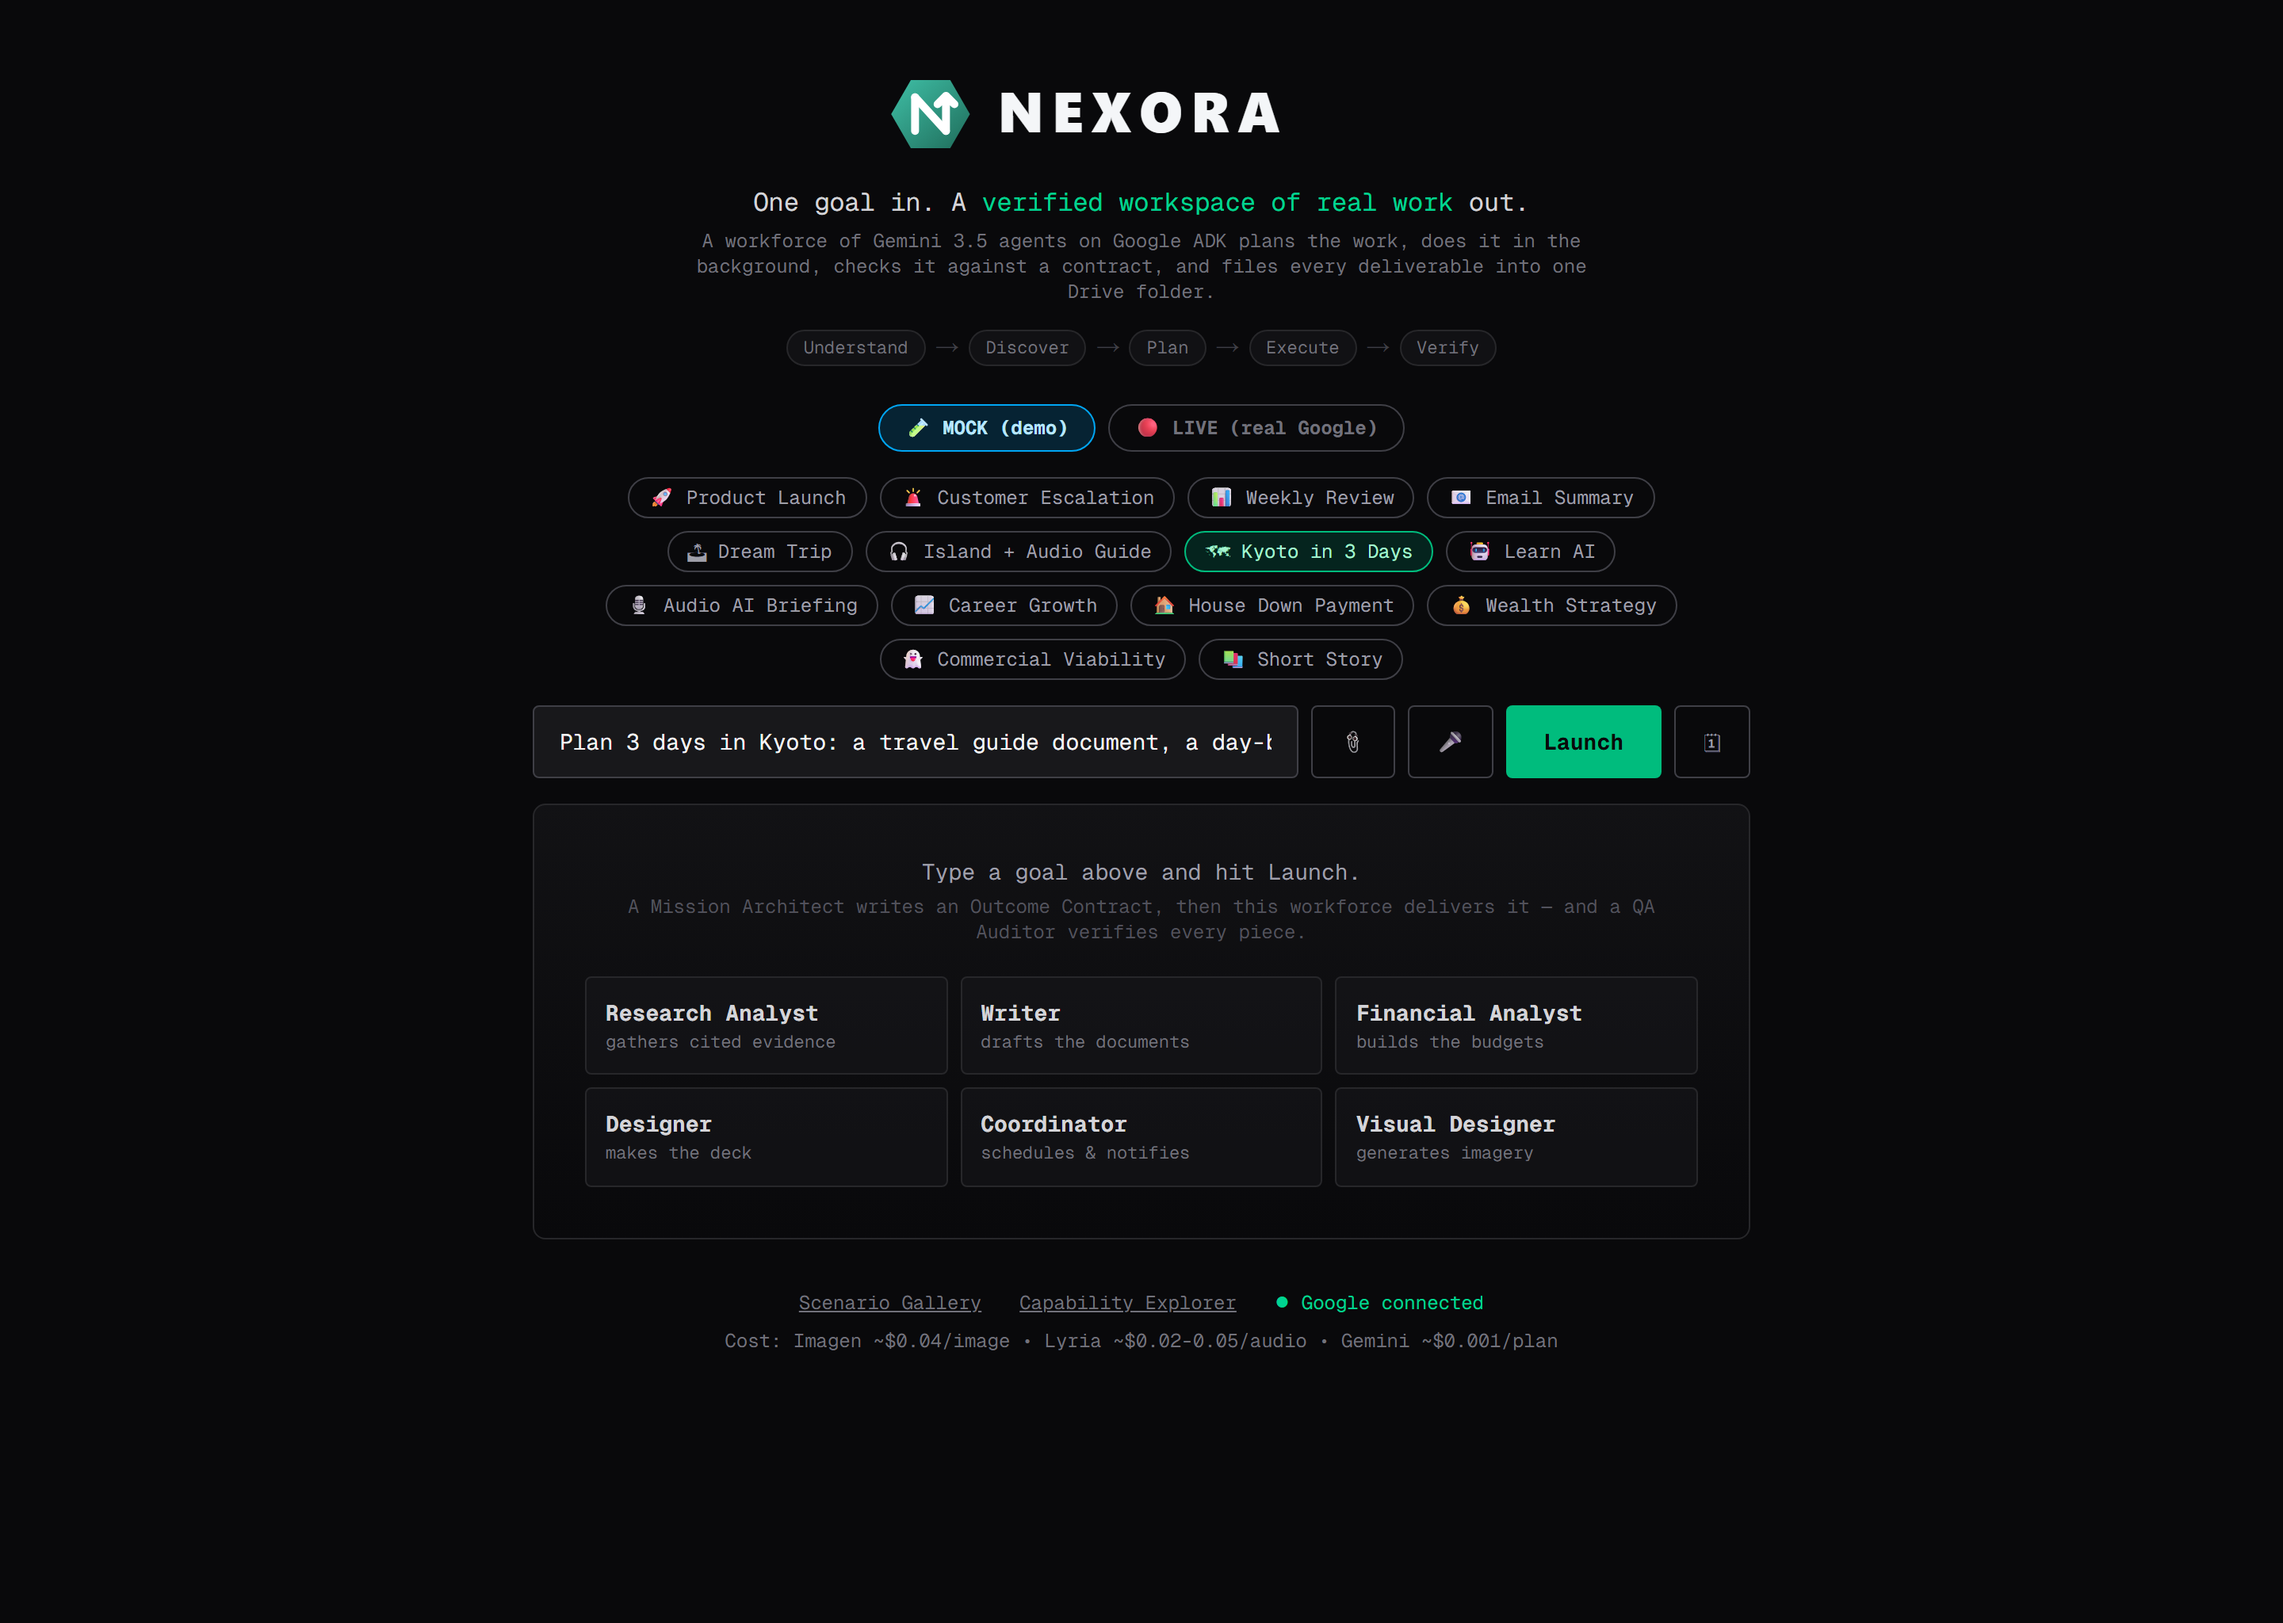
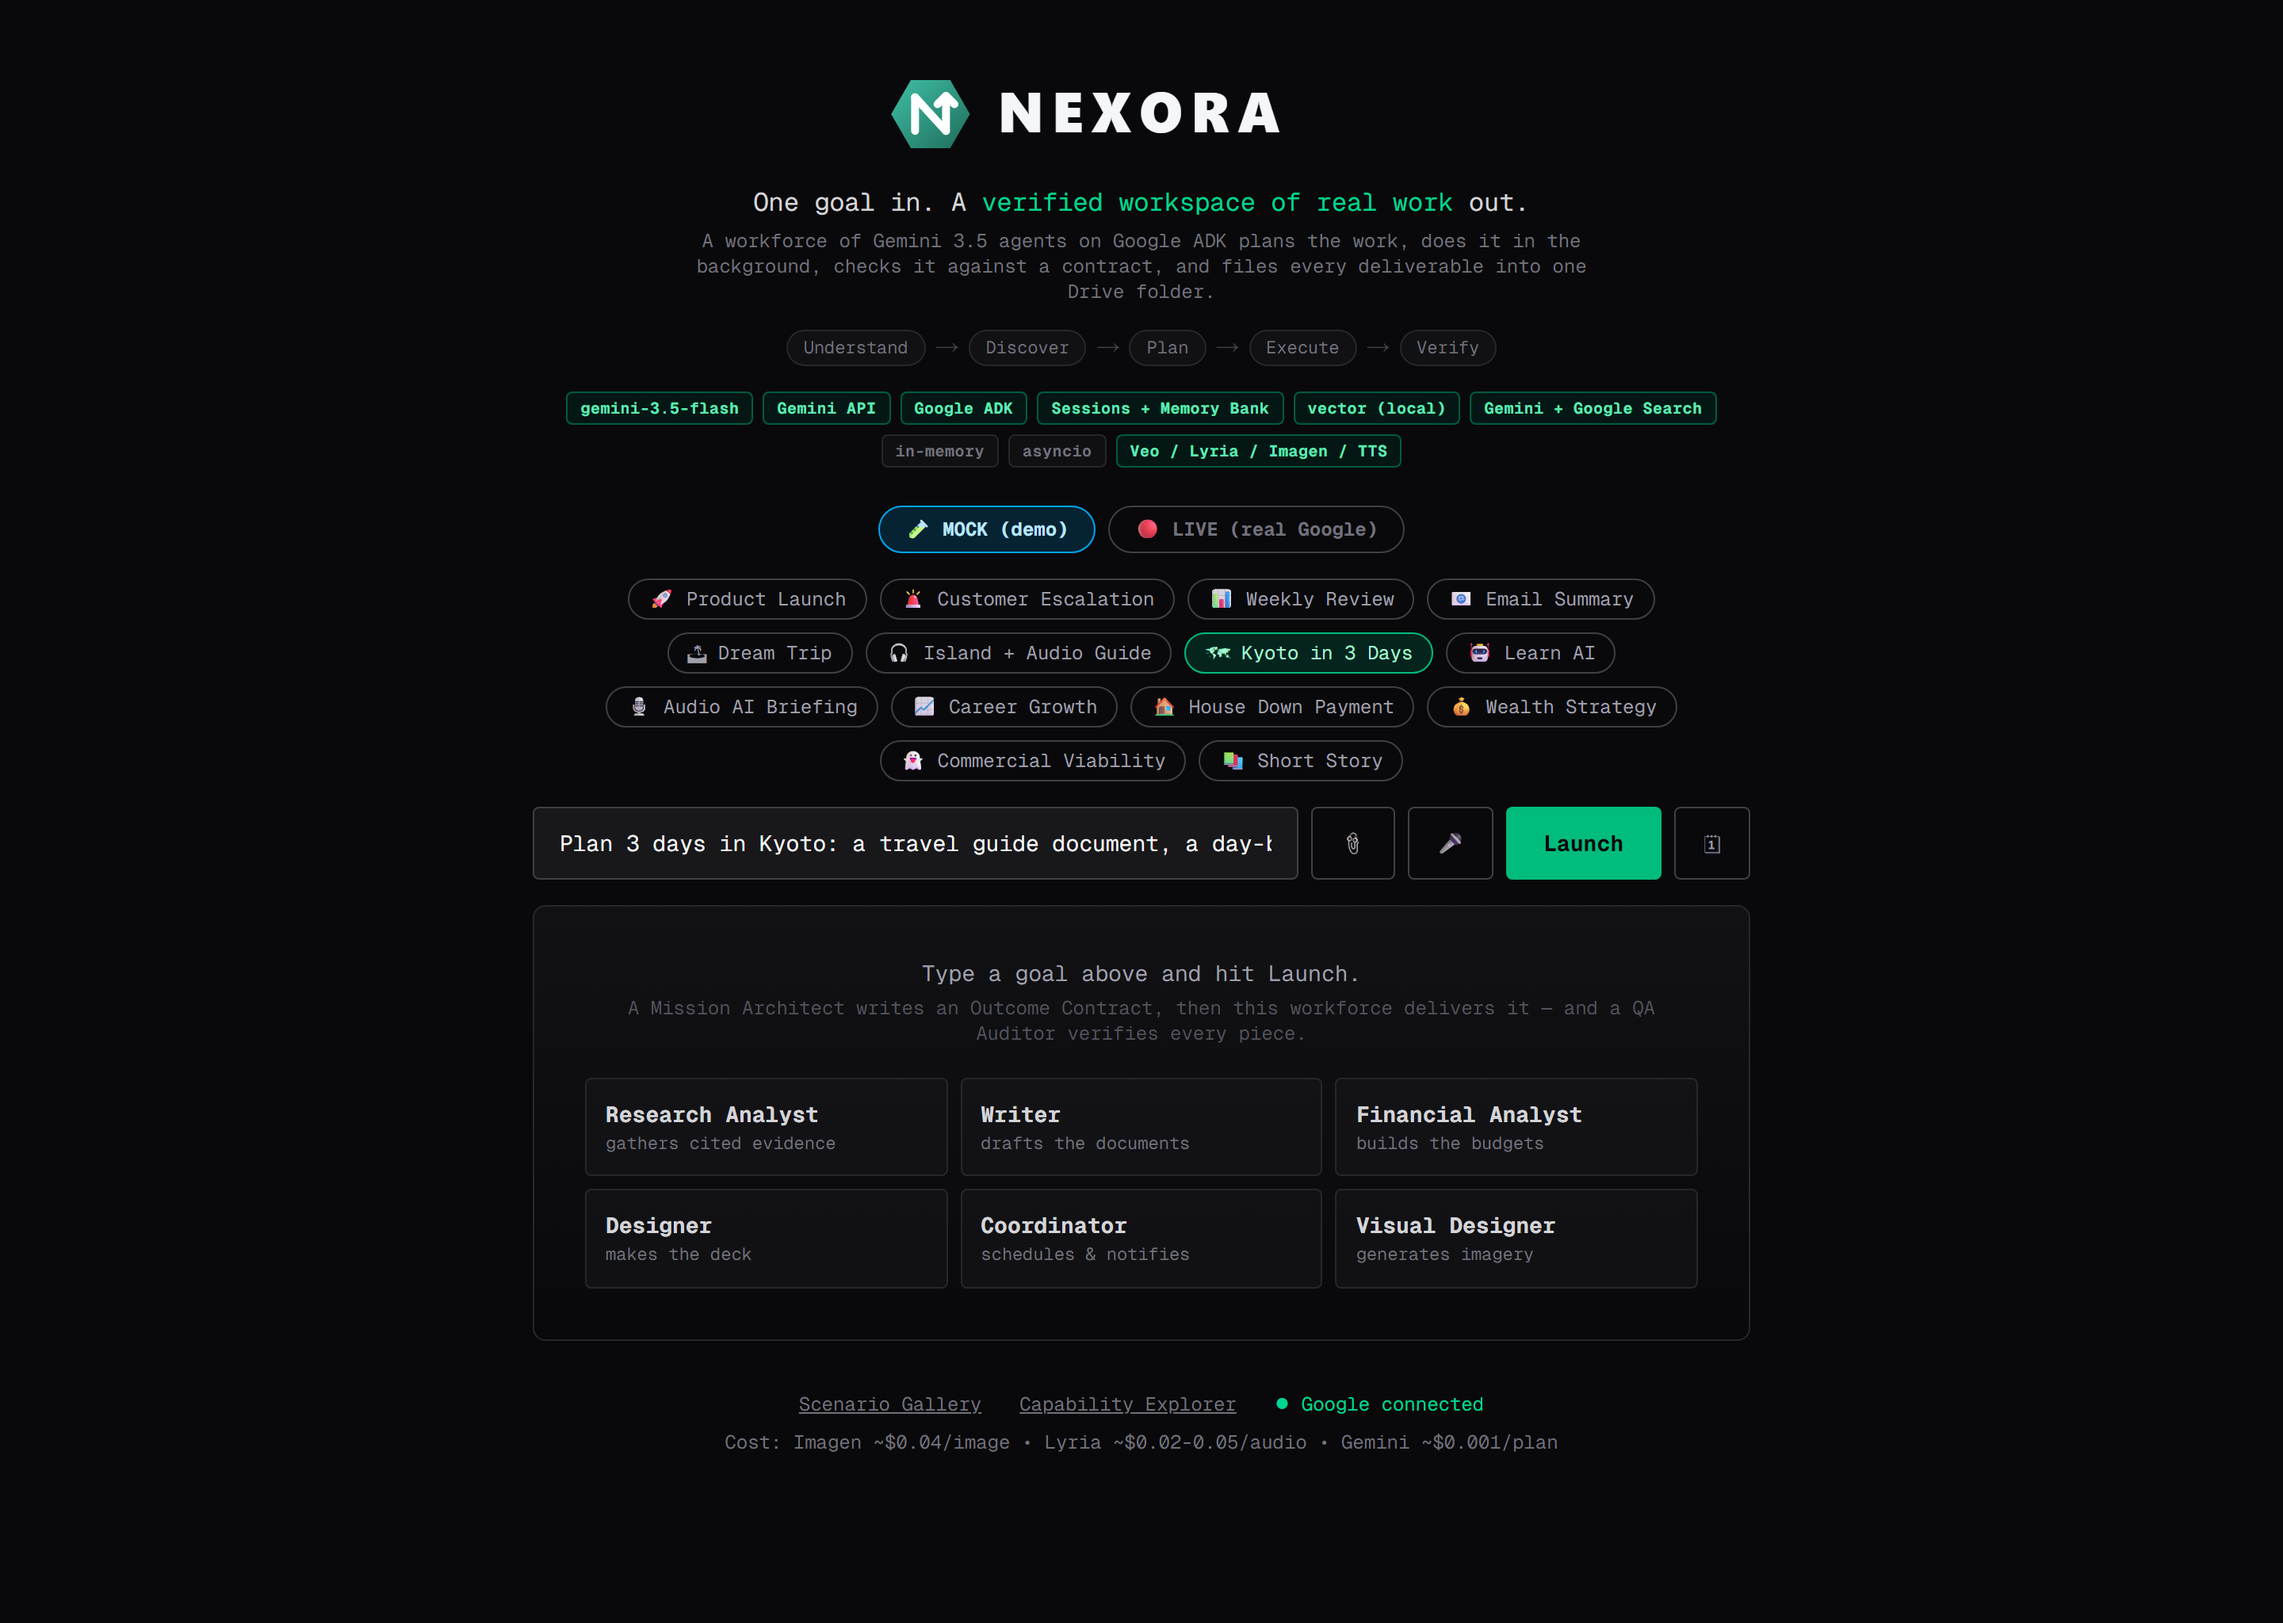
Live Google-stack badge row + /api/v1/config; README requirements checklist
- GET /api/v1/config returns the resolved stack (model ids + on/off badges for
  Gemini 3.5, Vertex AI, Google ADK, Agent Engine Sessions+Memory Bank, grounded
  research, Firestore, Cloud Tasks, media models).
- Command Center header renders that as a badge row — green when active — so a
  judge can see the whole Google stack live, nothing taken on faith.
- README: a top-of-file "Hackathon requirements — at a glance" section — every
  mandatory requirement + every bonus model in a scannable table with file:line
  proof and a one-command grep to verify the wiring.
- Screenshots regenerated with the badge row.

154 tests pass; frontend typechecks.

diff --git a/apps/web/src/app/page.tsx b/apps/web/src/app/page.tsx
@@ -55,6 +55,8 @@ export default function Home() {
   const [error, setError] = useState<string | null>(null);
   const [selectedNode, setSelectedNode] = useState<any | null>(null);
   const [gConnected, setGConnected] = useState<boolean | null>(null);
+  const [cfg, setCfg] = useState<any>(null);
+  useEffect(() => { safeGet(`${API}/api/v1/config`).then(setCfg); }, []);
 
   // Phase 12: Execution mode selector (MOCK demo vs LIVE real workspace)
   const [execMode, setExecMode] = useState<"MOCK" | "LIVE">("MOCK");
@@ -201,6 +203,23 @@ export default function Home() {
             </span>
           ))}
         </div>
+
+        {/* Live Google-stack badges — resolved from the running config */}
+        {cfg?.badges && (
+          <div className="mx-auto mt-4 flex max-w-3xl flex-wrap items-center justify-center gap-1.5">
+            {cfg.badges.map((b: any) => (
+              <span key={b.label}
+                title={`${b.label}: ${b.value}`}
+                className={`rounded border px-2 py-0.5 text-[10px] font-bold tracking-wide ${
+                  b.on
+                    ? "border-emerald-700/70 bg-emerald-950/40 text-emerald-300"
+                    : "border-zinc-800 bg-zinc-900/50 text-zinc-500"
+                }`}>
+                {b.value}
+              </span>
+            ))}
+          </div>
+        )}
       </header>
 
       <div className="mx-auto max-w-3xl">

diff --git a/apps/api/nexora/main.py b/apps/api/nexora/main.py
@@ -141,6 +141,45 @@ async def healthz():
             "dispatcher": os.getenv("NEXORA_DISPATCHER", "local")}
 
 
+@app.get("/api/v1/config")
+async def resolved_config():
+    """The Google stack NEXORA is actually running against — rendered live in the
+    Command Center header so there is nothing to take on faith."""
+    from nexora.core.llm_client import llm_available
+    from nexora.core.adk_runtime import adk_available, _agent_engine_id
+    from nexora.core.memory_bank import memory_bank_available
+    backend = os.getenv("NEXORA_LLM_BACKEND", "auto")
+    on_vertex = backend == "vertex" or (backend == "auto" and bool(os.getenv("GCP_PROJECT_ID"))
+                                        and not os.getenv("GEMINI_API_KEY"))
+    badges = []
+    badges.append(("Gemini", os.getenv("NEXORA_MODEL_T2", "gemini-3.5-flash"), llm_available()))
+    badges.append(("Transport", "Vertex AI" if on_vertex else "Gemini API", llm_available()))
+    badges.append(("Agents", "Google ADK", adk_available()))
+    badges.append(("Agent Engine", "Sessions + Memory Bank" if _agent_engine_id() else "in-process",
+                   bool(_agent_engine_id())))
+    badges.append(("Memory", "Memory Bank" if memory_bank_available() else "vector (local)", True))
+    badges.append(("Research", "Gemini + Google Search", os.getenv("NEXORA_GROUNDED_RESEARCH", "1") == "1"))
+    badges.append(("State", "Firestore" if os.getenv("NEXORA_REPO") == "firestore" else "in-memory",
+                   os.getenv("NEXORA_REPO") == "firestore"))
+    badges.append(("Dispatch", "Cloud Tasks" if os.getenv("NEXORA_DISPATCHER") == "cloud" else "asyncio",
+                   os.getenv("NEXORA_DISPATCHER") == "cloud"))
+    badges.append(("Media", "Veo / Lyria / Imagen / TTS", True))
+    return {
+        "execution_mode": os.getenv("EXECUTION_MODE", "MOCK"),
+        "project": os.getenv("GCP_PROJECT_ID", ""),
+        "agent_engine": _agent_engine_id(),
+        "models": {
+            "reasoning": os.getenv("NEXORA_MODEL_T2", "gemini-3.5-flash"),
+            "image": os.getenv("NEXORA_IMAGE_MODEL", "gemini-2.5-flash-image"),
+            "video": os.getenv("NEXORA_VIDEO_MODEL", "veo-3.1-fast-generate-001"),
+            "music": os.getenv("NEXORA_AUDIO_MODEL", "lyria-002"),
+            "speech": os.getenv("NEXORA_TTS_MODEL", "gemini-2.5-flash-tts"),
+            "embedding": os.getenv("NEXORA_EMBED_MODEL", "text-embedding-005"),
+        },
+        "badges": [{"label": l, "value": v, "on": bool(o)} for l, v, o in badges],
+    }
+
+
 async def _spawn_scheduled(goal: str, execution_mode: ExecutionMode) -> str:
     """Scheduler entry point — create a mission from a standing instruction."""
     mission = await create_mission(GoalRequest(goal=goal, execution_mode=execution_mode))

diff --git a/README.md b/README.md
@@ -17,6 +17,39 @@
 
 ---
 
+## Hackathon requirements — at a glance
+
+**Every mandatory requirement is met, and every point is proven with a link or a one‑command check.**
+
+| Requirement | ✅ NEXORA uses | Where |
+|---|---|---|
+| **Gemini 3.5 or newer** | `gemini-3.5-flash` — the Architect, all 6 workforce agents, the QA Auditor, research synthesis, screenshot vision, and doc/slide/sheet composition | [`llm_client.py:66`](apps/api/nexora/core/llm_client.py#L66) · `NEXORA_MODEL_T2` in [`.env.example`](apps/api/.env.example) |
+| **A Google agent framework** | **Google ADK** (`google-adk`) — every reasoning turn is an ADK `LlmAgent` run through an ADK `Runner`; **Google GenAI SDK** (`google-genai`) is the model transport | [`adk_runtime.py:90`](apps/api/nexora/core/adk_runtime.py#L90) |
+| **Google agent platform (preferred)** | **Vertex AI Agent Engine** — the ADK Runner uses `VertexAiSessionService` (managed Sessions) + `VertexAiMemoryBankService` (managed Memory Bank) on a real `reasoningEngines/…` instance | [`adk_runtime.py:65`](apps/api/nexora/core/adk_runtime.py#L65) · [`deploy_agent_engine.py`](infrastructure/deploy_agent_engine.py) |
+| **A Google Cloud infrastructure service** | **Cloud Run** (the service), **Firestore** (mission + schedule state), **Cloud Tasks** (one retried task per plan node), **Cloud Scheduler** (standing goals), **Secret Manager** (keys) | [`deploy.sh`](infrastructure/deploy.sh) · [`terraform/`](infrastructure/terraform) |
+| **Model on Vertex AI** | Gemini runs through Vertex AI in production (`NEXORA_LLM_BACKEND=vertex`, `genai.Client(vertexai=True)`), plus Vertex `text-embedding-005` for vector memory | [`llm_client.py:140`](apps/api/nexora/core/llm_client.py#L140) |
+| **Hosted + reproducible** | `Dockerfile` + one‑command `infrastructure/deploy.sh` + Terraform; 154 hermetic tests | [`Dockerfile`](Dockerfile) |
+| **Multimodal** | voice input; screenshot analysis (Gemini Vision); generated images, video, audio | see below |
+
+### Bonus — additional Google AI models
+
+| Model | What NEXORA does with it | Where |
+|---|---|---|
+| **Veo 3.1 Fast** (`veo-3.1-fast-generate-001`) | generates a short cinematic clip for launch/announcement goals; uploaded to the mission Drive folder | [`live_workspace.py:637`](apps/api/nexora/providers/live_workspace.py#L637) |
+| **Lyria 2** (`lyria-002`) | generates original instrumental music / a brand jingle when the goal asks for one | [`live_workspace.py:765`](apps/api/nexora/providers/live_workspace.py#L765) |
+| **Gemini image** (`gemini-2.5-flash-image`) | generates the inspiration / concept imagery for a deliverable | [`live_workspace.py:374`](apps/api/nexora/providers/live_workspace.py#L374) |
+| **Gemini TTS** (`gemini-2.5-flash-tts`) | reads a briefing aloud — a real spoken WAV, not music | [`live_workspace.py:717`](apps/api/nexora/providers/live_workspace.py#L717) |
+| **Gemini + Google Search grounding** | `web.research` — real, cited web findings | [`web_research.py:146`](apps/api/nexora/core/web_research.py#L146) |
+
+**Verify the wiring yourself in one command** (no key, no account):
+
+```bash
+grep -rn --include=*.py "gemini-3.5-flash\|veo-3.1\|lyria-002\|gemini-2.5-flash-tts\|gemini-2.5-flash-image" apps/api/nexora
+grep -rn --include=*.py "google.adk\|VertexAiMemoryBankService\|genai.Client(vertexai=True\|google_search=" apps/api/nexora
+```
+
+---
+
 ## The problem
 
 Knowledge work is full of tasks that are *individually* trivial and *collectively*
